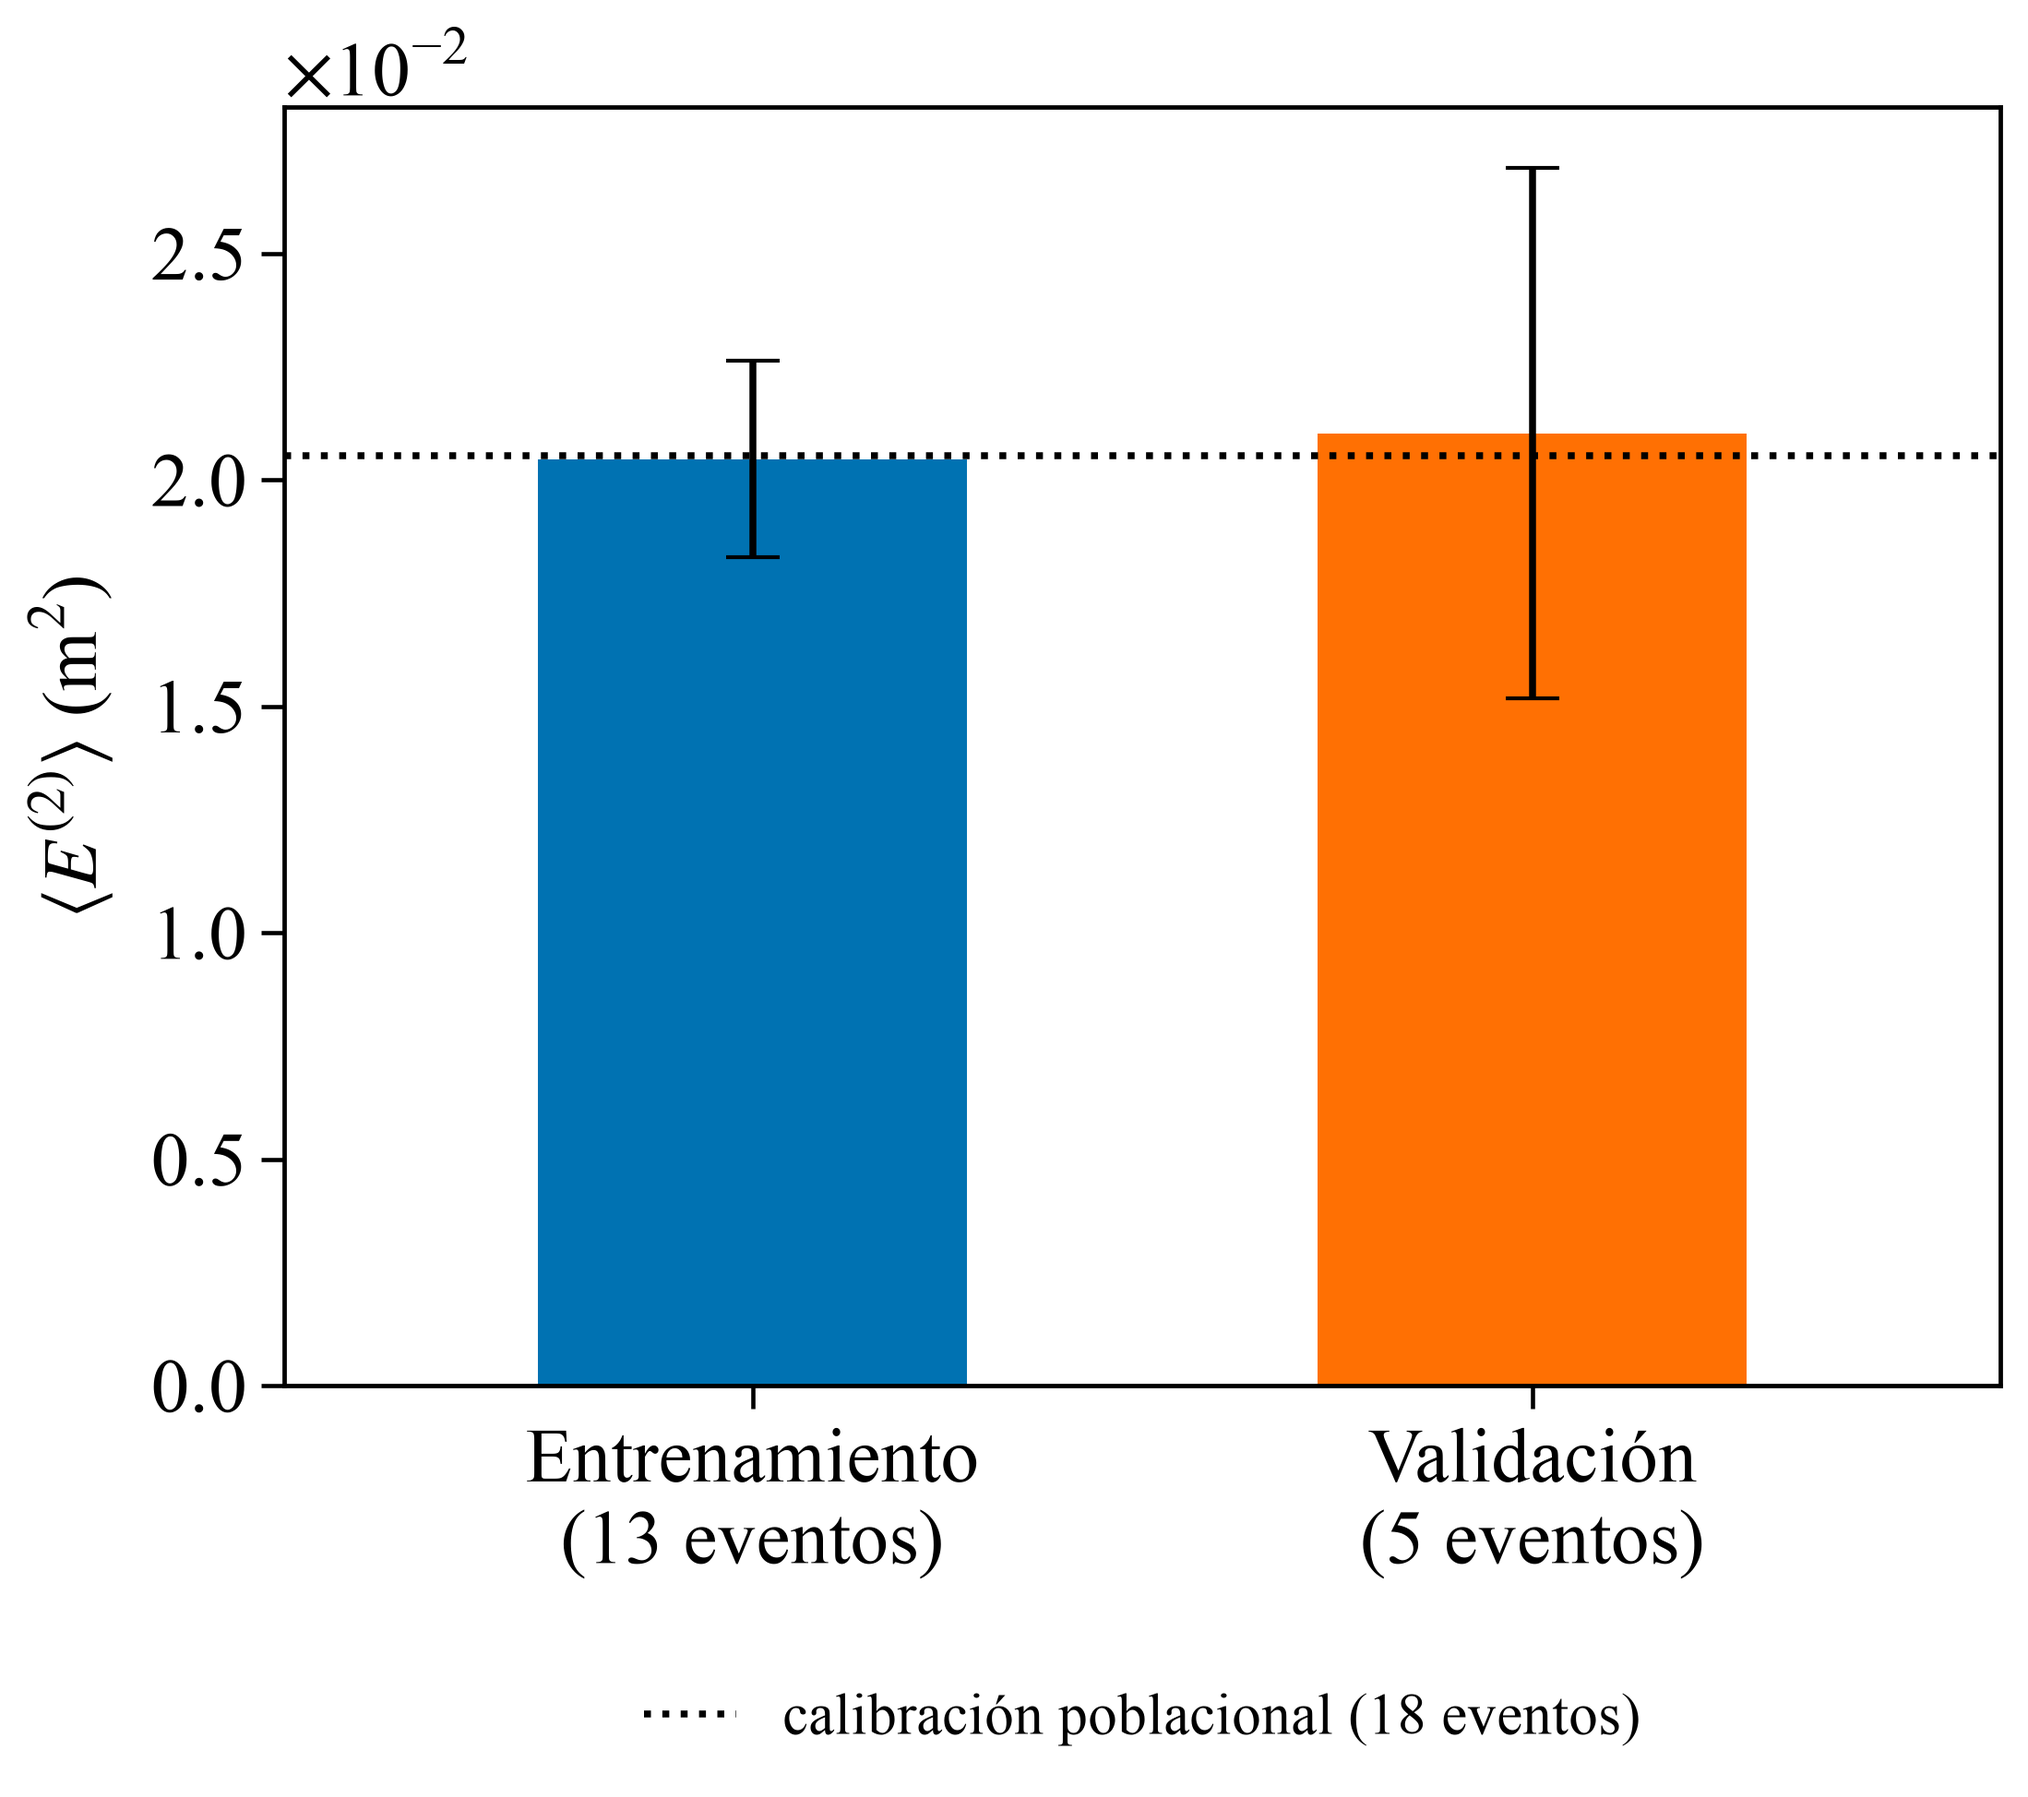
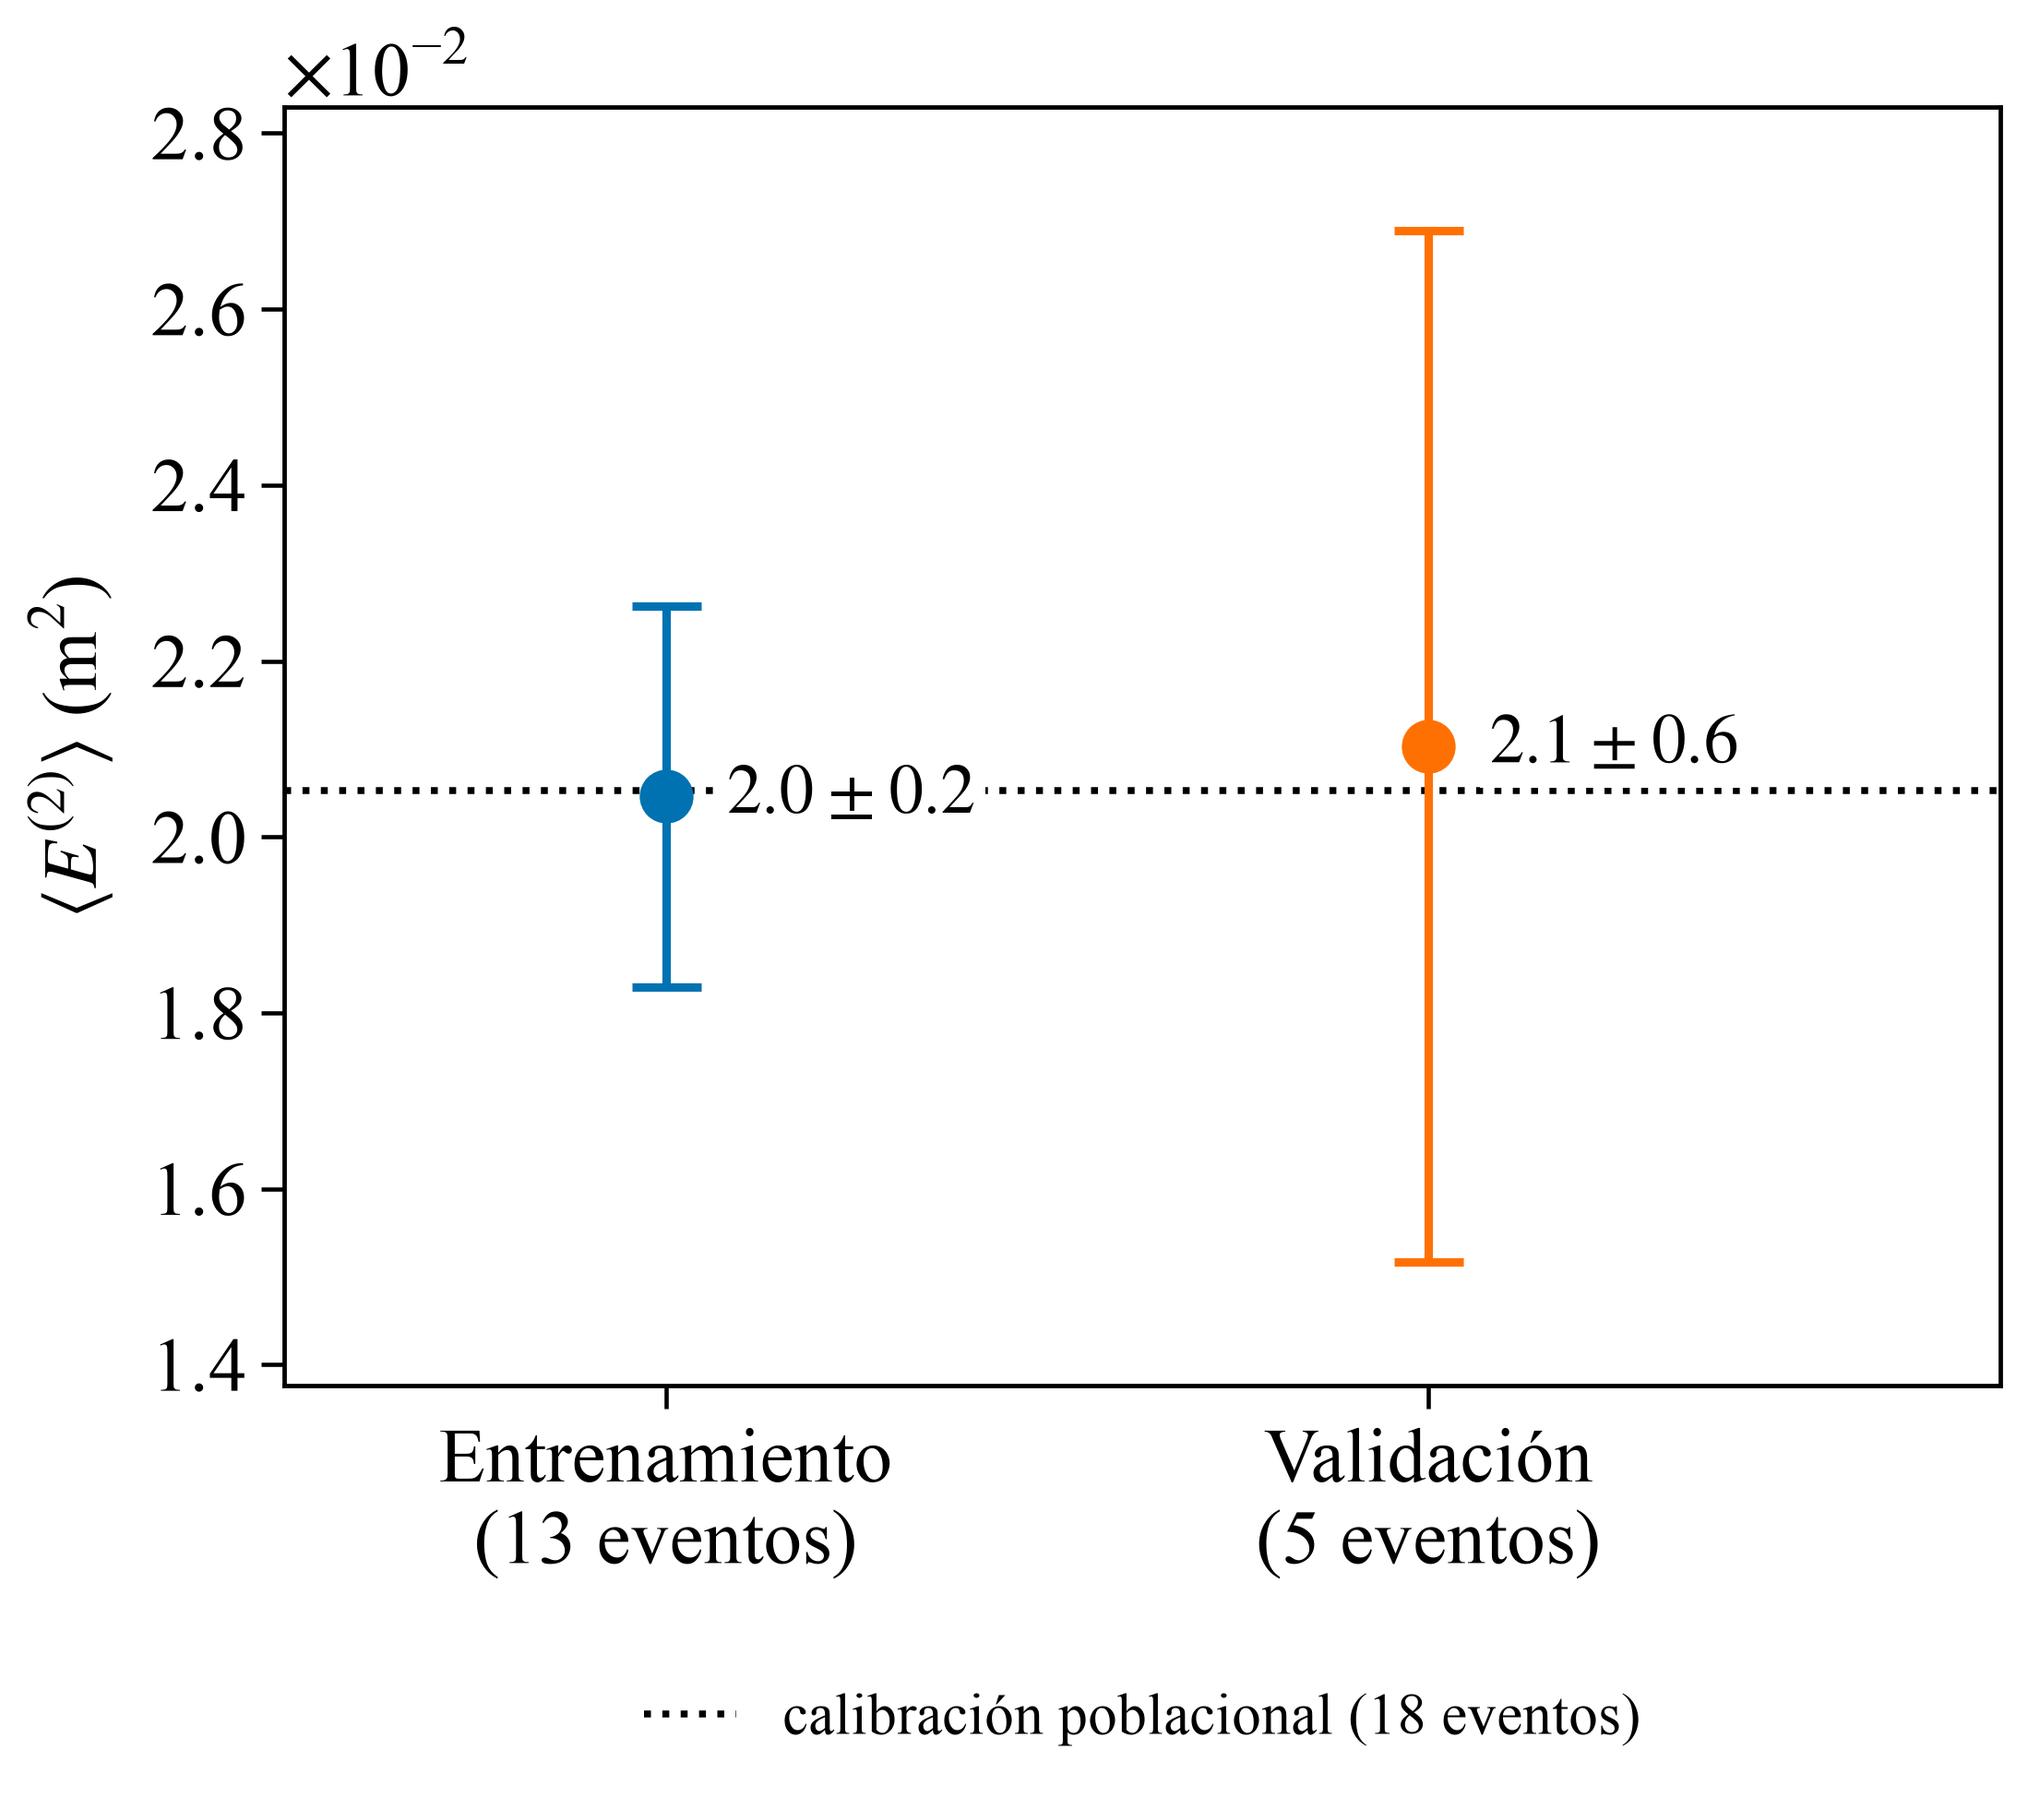
improved validacion cruzada slide

diff --git a/scripts/plot_calibration.py b/scripts/plot_calibration.py
@@ -26,6 +26,7 @@ from matplotlib.colors import LogNorm  # noqa: E402
 from matplotlib.ticker import ScalarFormatter  # noqa: E402
 
 sys.path.insert(0, str(Path(__file__).resolve().parent / "lib"))
+from calib import format_pm  # noqa: E402
 from plot_style import BLUE, D_ACT_COLOR, D_LAT_COLOR, VERMILLION, apply_academic_style, style_axes  # noqa: E402
 
 REPO = Path(__file__).resolve().parents[1]
@@ -178,17 +179,28 @@ def plot_crossval(metric: int, indir: Path, outdir: Path) -> None:
     E_tr = np.array([float(r[3]) for r in rows])
     E_va = np.array([float(r[4]) for r in rows])
 
-    # one bar per set: mean over the partitions, error bar = sample sd between partitions (said on the slide)
+    # one point per set: mean over the partitions, error bar = sample sd between partitions, value written beside it.
+    # Points, not bars: a bar has to start at zero and then the spread, which is the result, takes a sliver of the axis
     # (the partition index carries no information, so it is not an axis)
+    order = int(np.floor(np.log10(E_pop)))  # same power of ten on the axis and in the written values
+    order = order if order < -1 else 0
     fig, ax = plt.subplots(figsize=(8, 6))
     for x, vals, color in ((0, E_tr, BLUE), (1, E_va, VERMILLION)):
-        ax.bar(x, vals.mean(), 0.55, color=color)
-        ax.errorbar(x, vals.mean(), yerr=vals.std(ddof=1), color="black", capsize=7, linewidth=1.8, zorder=4)
-    ax.axhline(E_pop, color="black", linestyle=":", linewidth=1.8, label="calibración poblacional (18 eventos)")
+        mean, sd = vals.mean(), vals.std(ddof=1)
+        ax.errorbar(x, mean, yerr=sd, fmt="o", markersize=13, color=color, ecolor=color, capsize=9, capthick=2.2,
+                    elinewidth=2.2, zorder=3)
+        value, error = format_pm(mean / 10**order, sd / 10**order)
+        ax.annotate(rf"${value} \pm {error}$", (x, mean), textcoords="offset points", xytext=(16, 0), ha="left",
+                    va="center", fontsize=18, zorder=4, bbox=dict(facecolor="white", edgecolor="none", pad=2.5))
+    ax.axhline(E_pop, color="black", linestyle=":", linewidth=1.8, label="calibración poblacional (18 eventos)", zorder=1)
     ax.set_xticks([0, 1])
     ax.set_xticklabels(["Entrenamiento\n(13 eventos)", "Validación\n(5 eventos)"])
-    ax.set_xlim(-0.6, 1.6)
-    ax.set_ylim(0, None)
+    ax.set_xlim(-0.5, 1.75)
+    ax.margins(y=0.12)
+    if order:
+        ax.ticklabel_format(axis="y", style="sci", scilimits=(order, order))
+    else:
+        ax.ticklabel_format(axis="y", style="plain")
     style_axes(ax, "", rf"$\langle E^{{({metric})}}\rangle$ (m$^2$)")
     ax.legend(loc="upper center", bbox_to_anchor=(0.5, -0.2), fontsize=15, ncol=2, frameon=False)
     save(fig, outdir / f"E{metric}_validacion_cruzada.png")

diff --git a/docs/presentation/secciones/resultados.tex b/docs/presentation/secciones/resultados.tex
@@ -207,15 +207,20 @@
 \begin{frame}{Resultados}
   \framesubtitle{Validación cruzada: 20 particiones aleatorias (70\,\% / 30\,\%)}
   \begin{columns}[T]
-    \begin{column}{0.49\textwidth}
+    \begin{column}{0.38\textwidth}
       \centering{\small Métrica 1}\par
-      \includegraphics[width=\linewidth,height=0.62\textheight,keepaspectratio]{E1_validacion_cruzada.png}
+      \includegraphics[width=\linewidth,height=0.70\textheight,keepaspectratio]{E1_validacion_cruzada.png}
     \end{column}
-    \begin{column}{0.49\textwidth}
+    \begin{column}{0.38\textwidth}
       \centering{\small Métrica 2}\par
-      \includegraphics[width=\linewidth,height=0.62\textheight,keepaspectratio]{E2_validacion_cruzada.png}
+      \includegraphics[width=\linewidth,height=0.70\textheight,keepaspectratio]{E2_validacion_cruzada.png}
+    \end{column}
+    \begin{column}{0.22\textwidth}
+      \vspace{0.20\textheight}
+      \begin{resultado}
+        \item Validación $\approx$ entrenamiento $\approx$ poblacional
+        \item Sin sobreajuste
+      \end{resultado}
     \end{column}
   \end{columns}
-  \vspace{6pt}
-  \centering{\small Validación $\approx$ entrenamiento $\approx$ poblacional: sin sobreajuste}
 \end{frame}
